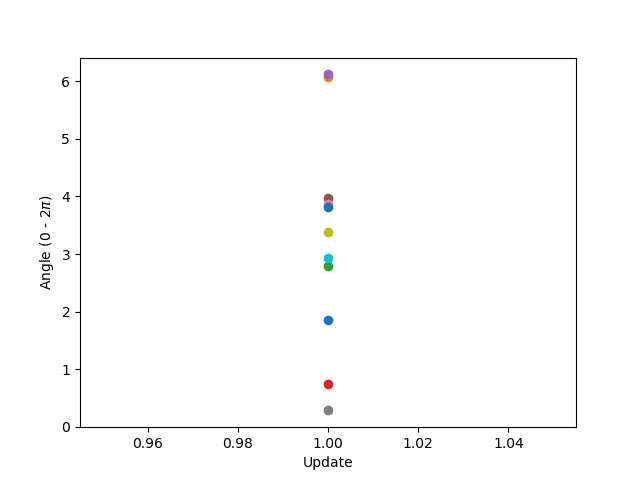
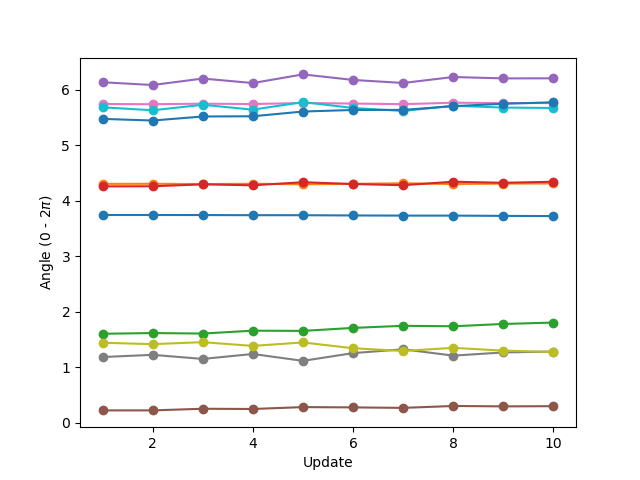
pennylane implementation

diff --git a/QuantumEdgeNetwork_pennylane.py b/QuantumEdgeNetwork_pennylane.py
@@ -1,0 +1,205 @@
+# Author: Cenk Tüysüz
+# Date: 29.08.2019
+# First attempt to test QuantumEdgeNetwork
+# Run this code the train and test the network
+
+import matplotlib.pyplot as plt
+import pennylane as qml 
+from pennylane import numpy as np
+from datasets.hitgraphs import HitGraphDataset
+import sys, time
+import multiprocessing
+
+dev1 = qml.device("default.qubit", wires=6)
+
+@qml.qnode(dev1)
+def TTN_edge_forward(edge,theta_learn):
+	# Takes the input and learning variables and applies the
+	# network to obtain the output
+	
+	# STATE PREPARATION
+	for i in range(len(edge)):
+		qml.RY(edge[i],wires=i)
+	# APPLY forward sequence
+	qml.RY(theta_learn[0],wires=0)
+	qml.RY(theta_learn[1],wires=1)
+	qml.CNOT(wires=[0,1])
+	qml.RY(theta_learn[2],wires=2)
+	qml.RY(theta_learn[3],wires=3)
+	qml.CNOT(wires=[2,3])
+	qml.RY(theta_learn[4],wires=4)
+	qml.RY(theta_learn[5],wires=5)
+	qml.CNOT(wires=[5,4])
+	qml.RY(theta_learn[6],wires=1)
+	qml.RY(theta_learn[7],wires=3)
+	qml.CNOT(wires=[1,3])
+	qml.RY(theta_learn[8],wires=3)
+	qml.RY(theta_learn[9],wires=4)
+	qml.CNOT(wires=[3,4])
+	qml.RY(theta_learn[10],wires=4)
+		
+	return(qml.expval(qml.PauliZ(4)))
+
+def TTN_edge_back(input_,theta_learn):
+	# This function calculates the gradients for all learning 
+	# variables numerically and updates them accordingly.
+	# TODO: need to choose epsilon properly
+	epsilon = np.pi/2 # to take derivative
+	gradient = np.zeros(len(theta_learn))
+	update = np.zeros(len(theta_learn))
+	for i in range(len(theta_learn)):
+		## Compute f(x+epsilon)
+		theta_learn[i] = (theta_learn[i] + epsilon)%(2*np.pi)
+		## Evaluate
+		out_plus = TTN_edge_forward(input_,theta_learn)
+		## Compute f(x-epsilon)
+		theta_learn[i] = (theta_learn[i] - 2*epsilon)%(2*np.pi)
+		## Evaluate
+		out_minus = TTN_edge_forward(input_,theta_learn)
+		# Compute the gradient numerically
+		gradient[i] = (out_plus-out_minus)/2
+		## Bring theta to its original value
+		theta_learn[i] = (theta_learn[i] + epsilon)%(2*np.pi)
+	return gradient
+def map2angle(B):
+	# Maps input features to 0-2PI
+	r_min     = 0.
+	r_max     = 1.
+	phi_min   = -1.
+	phi_max   = 1.
+	z_min     = 0.
+	z_max     = 1.2
+	B[:,0] =  (B[:,0]-r_min)/(r_max-r_min) 
+	B[:,1] =  (B[:,1]-phi_min)/(phi_max-phi_min) 
+	B[:,2] =  (B[:,2]-z_min)/(z_max-z_min) 
+	B[:,3] =  (B[:,3]-r_min)/(r_max-r_min) 
+	B[:,4] =  (B[:,4]-phi_min)/(phi_max-phi_min) 
+	B[:,5] =  (B[:,5]-z_min)/(z_max-z_min)
+	return B
+def get_loss_and_gradient(edge_array,y,theta_learn,class_weight,loss_array,gradient_array,update_array):
+	local_loss     = 0.
+	local_gradient = np.zeros(len(theta_learn))
+	local_update   = np.zeros(len(theta_learn))
+	#print('Edge Array Size: ' + str(len(edge_array)))
+	for i in range(len(edge_array)):
+		error          = (TTN_edge_forward(edge_array[i],theta_learn)+1)/2 - y[i]
+		loss           = (error**2)*class_weight[int(y[i])]
+		local_loss     += loss
+		gradient       = TTN_edge_back(edge_array[i],theta_learn)
+		local_gradient += gradient
+		local_update   += 2*error*gradient
+		#print('Item: ' + str(i) + ' Loss: ' + str(loss))
+	loss_array.append(local_loss)
+	gradient_array.append(local_gradient)
+	update_array.append(local_update)
+def train(B,theta_learn,y):
+	jobs         = []
+	n_threads    = 8
+	n_edges      = len(y)
+	n_feed       = n_edges//n_threads
+	n_class      = [n_edges - sum(y), sum(y)]
+	class_weight = [n_edges/(n_class[0]*2), n_edges/(n_class[1]*2)]
+	# RESET variables
+	manager        = multiprocessing.Manager()
+	loss_array     = manager.list()
+	gradient_array = manager.list()
+	update_array   = manager.list()
+	# Learning variables
+	lr = 1
+	# RUN Multithread training
+	#print('Total edge: ' + str(n_edges))
+	for thread in range(n_threads):
+		start = thread*n_feed
+		end   = (thread+1)*n_feed
+		if thread==(n_threads-1):   
+			p = multiprocessing.Process(target=get_loss_and_gradient,args=(B[start:,:],y[start:],theta_learn,class_weight,loss_array,gradient_array,update_array,))
+		else:
+			p = multiprocessing.Process(target=get_loss_and_gradient,args=(B[start:end,:],y[start:end],theta_learn,class_weight,loss_array,gradient_array,update_array,))   
+		jobs.append(p)
+		p.start()
+		#print('Thread: ' + str(thread) + ' started')
+
+	# WAIT for jobs to finish
+	for proc in jobs: 
+		proc.join()
+		#print('Thread ended')
+			
+	total_loss     = sum(loss_array)
+	total_gradient = sum(gradient_array)
+	total_update   = sum(update_array)
+	## UPDATE WEIGHTS
+	average_loss     = total_loss/n_edges
+	average_gradient = total_gradient/n_edges
+	average_update   = total_update/n_edges
+	theta_learn       = (theta_learn - lr*average_update)%(2*np.pi)
+	print('Loss: '      + str(average_loss)     )
+	print('Gradients: ' + str(average_gradient) )
+	print('Updates: '   + str(average_update)   )
+	print('Updated Angles : '   + str(theta_learn)      )
+	
+	with open('log_gradients.csv', 'a') as f:
+			for item in average_update:
+				f.write('%.4f, ' % item)
+			f.write('\n')	
+	return theta_learn,average_loss
+############################################################################################
+##### MAIN ######
+#client = Client(processes=False, threads_per_worker=1, n_workers=8, memory_limit='2GB')
+
+#client
+if __name__ == '__main__':
+	
+	theta_learn = np.random.rand(11)*np.pi*2
+	#input_dir = '/home/cenktuysuz/MyRepos/HepTrkX-quantum/data/hitgraphs'
+	#input_dir = '/Users/cenk/Repos/HEPTrkX-quantum/data/hitgraphs_big'
+	input_dir = 'data\hitgraphs_big'
+	n_files = 16*100
+	data = HitGraphDataset(input_dir, n_files)
+	
+	theta_log = np.zeros((n_files,11))
+	#accuracy[0] = test_accuracy(theta_learn)
+	print('Training is starting!')
+	for epoch in range(1): 
+		for n_file in range(n_files):
+			t0 = time.time()
+			loss_log = np.zeros(n_files)
+			X,Ro,Ri,y = data[n_file]
+			if n_file%2==0: # Section Correction: even files have negative z 
+				X[:,2] = -X[:,2]
+			bo    = np.dot(Ro.T, X)
+			bi    = np.dot(Ri.T, X)
+			B     = np.concatenate((bo,bi),axis=1)
+			B     = map2angle(B)
+			
+			# Log learning variables
+			with open('log_learning.csv', 'a') as f:
+				for item in theta_learn:
+					f.write('%.4f,' % item)
+				f.write('\n')
+
+			# Update learning variables
+			theta_learn,loss_log[n_file] = train(B,theta_learn,y)
+			theta_log[n_file,:] = theta_learn   
+
+			# Log loss and duration
+			t = time.time() - t0
+			with open('log_loss.csv', 'a') as f:
+				f.write('%d, %.4f, %.2d, %.2d\n' % (n_file+1, loss_log[n_file], t / 60, t % 60))
+
+			# Plot the result every update  
+			plt.clf()   
+			x = [(i+1) for i  in range(n_file+1)]
+			plt.plot(x,loss_log[:n_file+1],marker='o')
+			plt.xlabel('Update')
+			plt.ylabel('Loss')
+			plt.savefig('png\statistics_loss.png')
+
+			plt.clf()
+			for i in range(11):
+				plt.plot(x,theta_log[:n_file+1,i],marker='o',label=r'$\theta_{'+str(i)+'}$')
+			plt.xlabel('Update')
+			plt.ylabel(r'Angle (0 - 2$\pi$)')
+			plt.savefig('png\statistics_angle.png')
+
+		average_epoch_loss = loss_log.mean()
+
